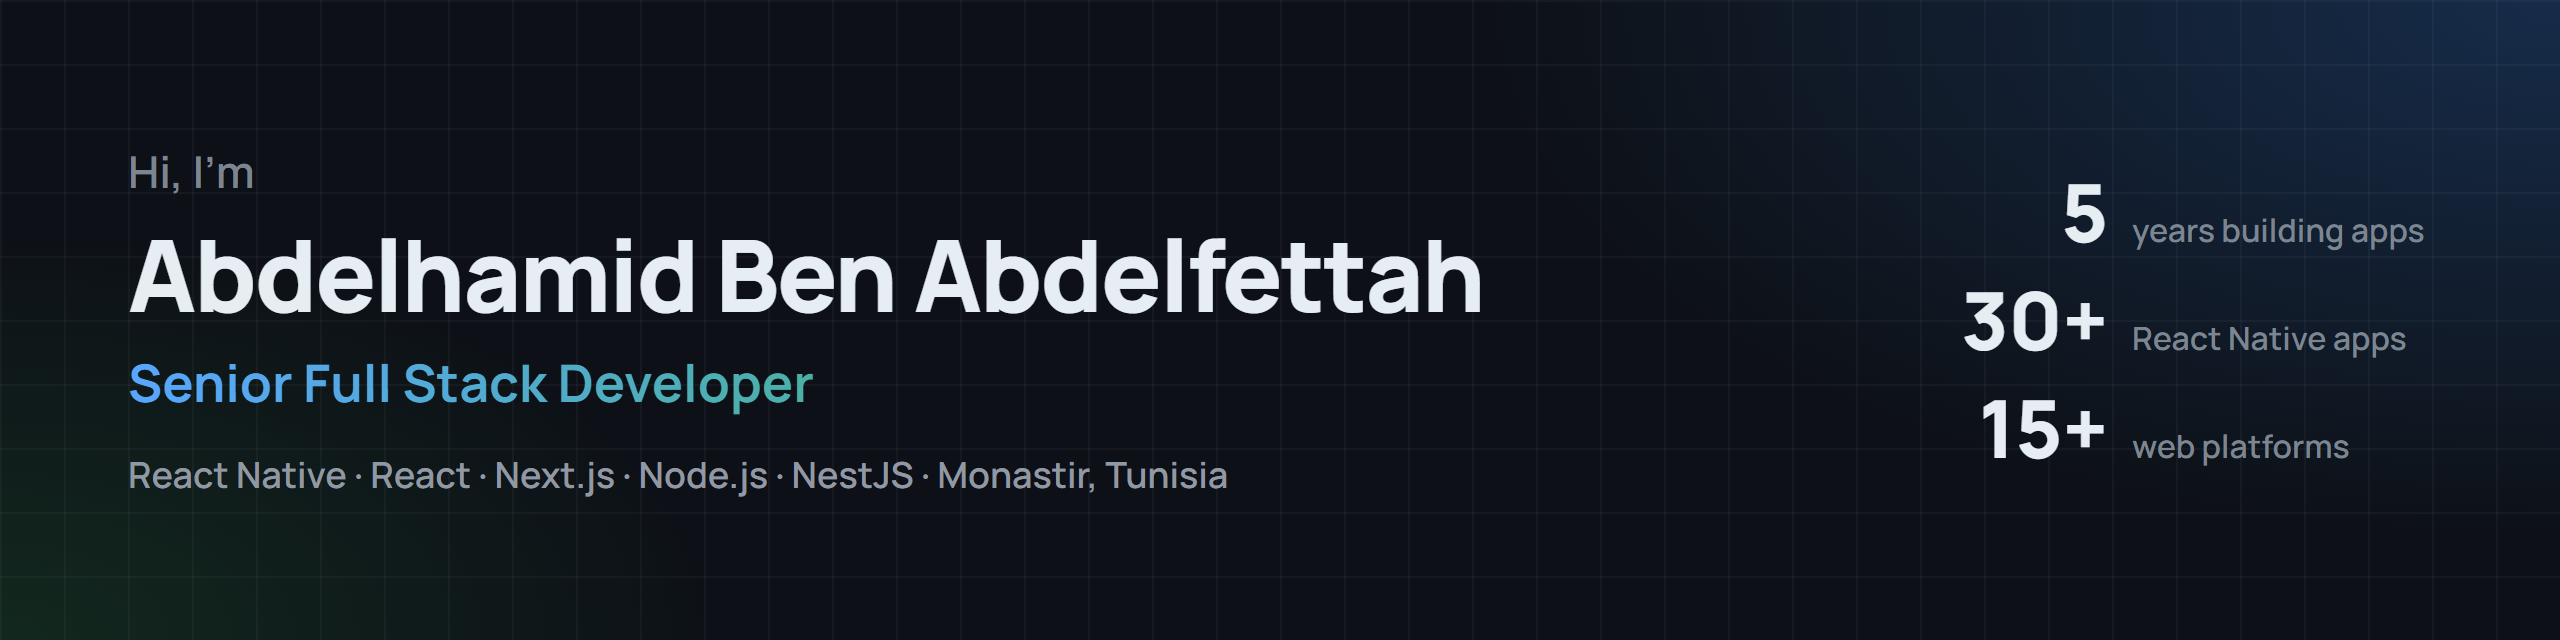
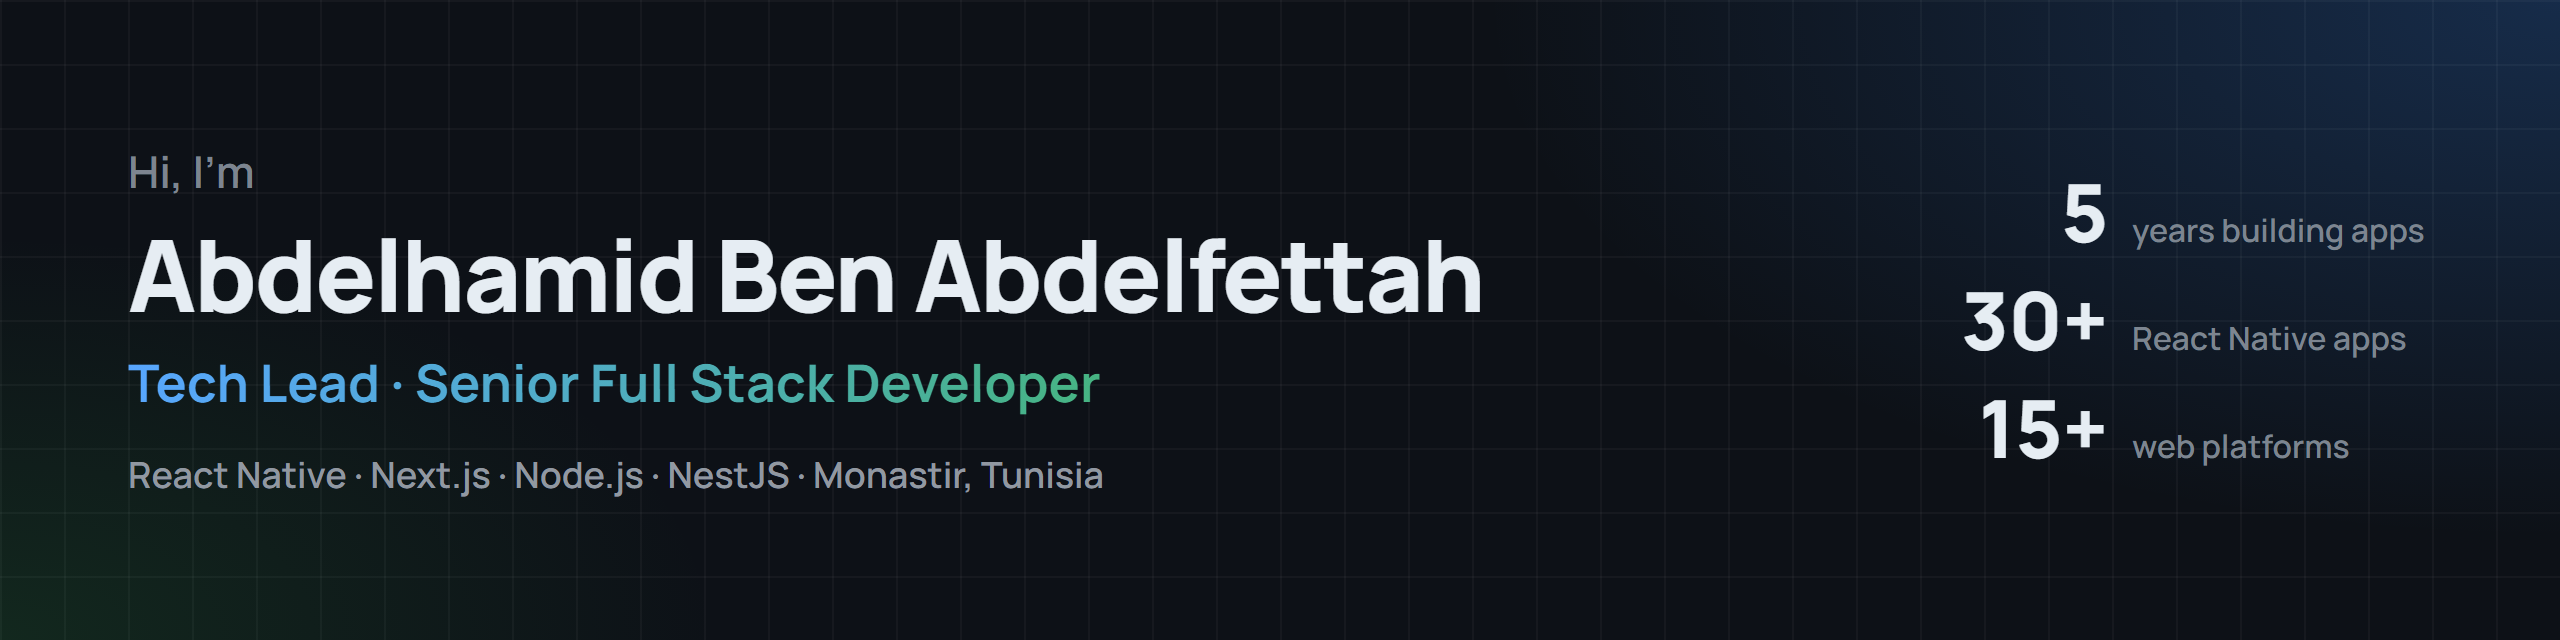
Profile: Tech Lead title, summary and experience from the Tech Lead CV
Banner and README now lead with Tech Lead & Senior Full Stack Developer, add the
Leadership skills row, and list projects in the CV's order.

Changed region(s): [[0.0312, 0.5625, 0.4375, 0.6562], [0.125, 0.7188, 0.5, 0.7812]]

diff --git a/README.md b/README.md
@@ -1,5 +1,5 @@
 <p align="center">
-  <img src="assets/banner.png" alt="Abdelhamid Ben Abdelfettah, Senior Full Stack Developer" width="100%">
+  <img src="assets/banner.png" alt="Abdelhamid Ben Abdelfettah, Tech Lead and Senior Full Stack Developer" width="100%">
 </p>
 
 <p align="center">
@@ -10,9 +10,11 @@
 
 ## About me
 
-I'm a Senior Full Stack Developer and Software Engineer with 5 years of experience building mobile and web applications, with a focus on **React Native**. I've delivered **30+ React Native apps** and **15+ web platforms** with React, Next.js, Node.js and NestJS, on MongoDB and PostgreSQL.
+I'm a Tech Lead and Senior Full Stack Developer with 5 years of experience leading the delivery of mobile and web products, with a focus on **React Native**.
 
-I also work as a technical project manager: I take projects from client requirements and estimates through planning and delivery. I hold an Engineering Degree in Software Engineering (Excellent), with hands-on work in AI and natural language processing.
+I lead projects end to end: from client requirements, architecture and planning through to delivery, coordinating developers and acting as the main technical contact for clients. I've shipped **30+ React Native apps** and **15+ web platforms** with React, Next.js, Vue.js, Node.js and NestJS on PostgreSQL, MongoDB and Redis, including multi-tenant SaaS products.
+
+I hold an Engineering Degree in Software Engineering (Excellent), with hands-on work in AI and natural language processing.
 
 ## Tech stack
 
@@ -22,13 +24,13 @@ I also work as a technical project manager: I take projects from client requirem
 
 | Area | Technologies |
 | --- | --- |
+| Leadership | Technical leadership, software architecture, requirements analysis, planning and estimation, team coordination, client communication |
 | Mobile | React Native, Android, iOS |
 | Front-end | React, Next.js, Vue.js, Angular, TypeScript, JavaScript, HTML, CSS |
 | Back-end | Node.js, NestJS, Express, PHP, Symfony, Java, Spring Boot, Python, Flask |
 | Databases | PostgreSQL, MongoDB, MySQL, Oracle, Redis |
 | AI & data | Machine learning, deep learning, NLP, TensorFlow |
 | DevOps | Docker |
-| Project management | Requirements analysis, planning and estimation, team coordination, client communication |
 
 ## Featured project: Rewardini
 
@@ -36,12 +38,12 @@ I also work as a technical project manager: I take projects from client requirem
   <img src="assets/rewardini-cover.png" alt="Rewardini: customer app, merchant dashboard and API" width="85%">
 </p>
 
-**A multi-tenant SaaS loyalty platform for local and online shops.** Customers keep every shop's card in one app and show one QR at the counter. Merchants run stamp cards, points, rewards, challenges and VIP cards from a web dashboard.
+**A multi-tenant SaaS loyalty platform with QR/NFC digital stamp cards.** Customers keep every shop's card in one app and show one QR at the counter. Merchants run stamp cards, points, rewards, challenges and VIP cards from a web portal.
 
 - **Mobile app** (React Native): QR and NFC stamping, a QR that works offline, a map of nearby shops, push notifications
-- **Merchant portal and admin dashboard** (React 19, TypeScript, TanStack Query, Tailwind CSS): insights with AI suggestions, multiple locations, team roles, Paddle subscription billing
+- **Merchant portal and admin dashboard** (React 19, TypeScript, TanStack Query, Tailwind CSS): AI-generated insights, multiple locations, team roles, Paddle subscription billing
 - **API** (NestJS, Prisma, PostgreSQL, Redis, Docker): REST and WebSocket, real-time stamp updates, Shopify and WooCommerce coupon sync
-- English, French and Arabic, with full right-to-left support
+- Trilingual: French, English and Arabic, with full right-to-left support
 
 <p align="center">
   <img src="assets/rewardini-screens.png" alt="Rewardini app screens: home, stamp card, challenges, map" width="100%">
@@ -53,21 +55,23 @@ I also work as a technical project manager: I take projects from client requirem
 
 | | Project | Stack | What it does |
 | :---: | --- | --- | --- |
-| <img src="assets/icons/rewardini.png" width="48" alt="Rewardini"> | **Rewardini** | React 19, TypeScript, React Native, NestJS, Prisma, PostgreSQL, Redis, Docker | Multi-tenant SaaS loyalty platform with QR/NFC digital stamp cards, a merchant portal, an admin dashboard and a mobile app |
-| <img src="assets/icons/guidini.png" width="48" alt="Guidini"> | **Guidini** | React Native, NestJS, PostgreSQL | Tracking and communication app for travel agencies, tour guides and their groups |
+| <img src="assets/icons/rewardini.png" width="48" alt="Rewardini"> | **Rewardini** | React 19, TypeScript, TanStack Query, Tailwind CSS, React Native, NestJS, Prisma, PostgreSQL, Redis, Docker | Multi-tenant SaaS loyalty platform with QR/NFC digital stamp cards: merchant portal, admin dashboard, REST/WebSocket API and mobile app |
+| <img src="assets/icons/switchini.png" width="48" alt="Switchini"> | **Switchini** | Next.js, React Native, NestJS, Prisma, PostgreSQL, Redis, Docker | Platform for exchanging and donating unused goods to help the community |
 | <img src="assets/icons/trustini.png" width="48" alt="Trustini"> | **Trustini** | Next.js, NestJS, PostgreSQL | Helps e-commerce merchants check customer reliability through real order history shared by the community |
-| <img src="assets/icons/switchini.png" width="48" alt="Switchini"> | **Switchini** | Next.js, React Native, NestJS, Prisma, PostgreSQL, Redis, Docker | Platform for exchanging and donating unused goods within the community |
-| | **Wood Transfer Digitisation** (freelance) | React Native, Odoo | 10 mobile apps for an international wood company, replacing its wood-transfer paperwork |
+| <img src="assets/icons/guidini.png" width="48" alt="Guidini"> | **Guidini** | React Native, NestJS, PostgreSQL | Traveller tracking and communication app for travel agencies, tour guides and their groups |
+| | **Wood Transfer Digitisation** (freelance) | React Native, Odoo | 10 complete mobile apps for an international wood company, digitising its wood-transfer paperwork |
 | | **RFID Student Attendance** (IoT) | Arduino, Angular, Node.js, MongoDB | Automatic student attendance tracking with RFID tags |
 
 ## Experience
 
-**Senior Full Stack Developer (React Native focus)**, OpenEyesConsulting, Teboulba, Tunisia · *Aug 2021 – Aug 2026*
-- Delivered 30+ production iOS and Android apps in fintech, healthcare, booking, e-commerce, transport, social media and parental control
+**Tech Lead & Senior Full Stack Developer**, OpenEyesConsulting, Teboulba, Tunisia · *Aug 2021 – Aug 2026*
+- Led the technical delivery of client projects end to end: turned requirements into architecture and technical plans, chose the tech stack, estimated and planned work, and tracked delivery milestones
+- Coordinated the development team and acted as the main technical point of contact for clients, from scoping and estimates through to delivery
+- Delivered 30+ production iOS and Android apps with React Native across fintech, healthcare, booking, e-commerce, transport, social media and parental control
 - Delivered 15+ web applications, including ERP and SaaS platforms, an AI-driven contract manager, and booking, healthcare, e-commerce and aviation solutions
-- Led projects end to end as technical project manager, and was the main point of contact for clients from scoping to delivery
+- Stayed hands-on across the full stack: designed data layers on MongoDB and PostgreSQL and built features from UX/UI prototype to API
 
-**Earlier:** final-year engineering internship building an AI model for automatic source code generation (Python, TensorFlow, Flask) · remote internship at AllianTech, Paris, building an NLP application for sensor data sheets
+**Earlier:** final-year engineering internship building an AI model for automatic source code generation (Python, TensorFlow, Flask) · remote internship at AllianTech, Paris, building an NLP application for sensor technical data sheets
 
 ## Education
 
@@ -76,4 +80,4 @@ I also work as a technical project manager: I take projects from client requirem
 
 ---
 
-<p align="center">Open to freelance and full-time roles in mobile and full-stack development. <a href="mailto:benabdelfettah.abdelhamid@gmail.com">Get in touch</a>.</p>
+<p align="center">Open to tech lead, mobile and full-stack roles, freelance or full-time. <a href="mailto:benabdelfettah.abdelhamid@gmail.com">Get in touch</a>.</p>
